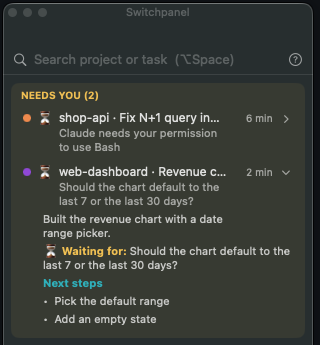
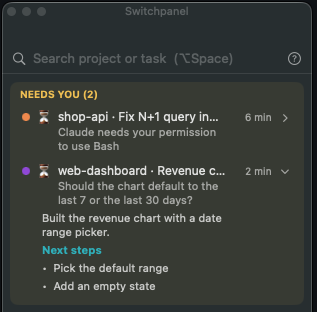
Update summary screenshot

diff --git a/README.md b/README.md
@@ -54,7 +54,7 @@ In the panel: click a project to rename it, right-click for colors, snooze a ses
 
 ## Summaries
 
-<p align="center"><img src="docs/summary.png" width="321" alt="An expanded session: what was done, what Claude is waiting for, and the next steps"></p>
+<p align="center"><img src="docs/summary.png" width="318" alt="An expanded session: what was done, what Claude is waiting for, and the next steps"></p>
 
 Off by default. When on, after each turn the hook runs `claude -p --model haiku` **with the same account as the session and without `ANTHROPIC_API_KEY`**, so it uses your plan's quota, not the API. Turn them on with `./install.sh --summaries on` or in `~/.switchpanel/config.json`:
 

diff --git a/README.es.md b/README.es.md
@@ -54,7 +54,7 @@ En el panel: clic en un proyecto para renombrarlo, clic derecho para el color, p
 
 ## Resúmenes
 
-<p align="center"><img src="docs/summary.png" width="321" alt="Una sesión expandida: qué se hizo, qué espera Claude y los próximos pasos"></p>
+<p align="center"><img src="docs/summary.png" width="318" alt="Una sesión expandida: qué se hizo, qué espera Claude y los próximos pasos"></p>
 
 Vienen apagados. Si los activás, al terminar cada turno el hook corre `claude -p --model haiku` **con la misma cuenta de la sesión y sin `ANTHROPIC_API_KEY`**, así que usa la cuota de tu plan y no la API. Se activan con `./install.sh --summaries on` o en `~/.switchpanel/config.json`:
 
